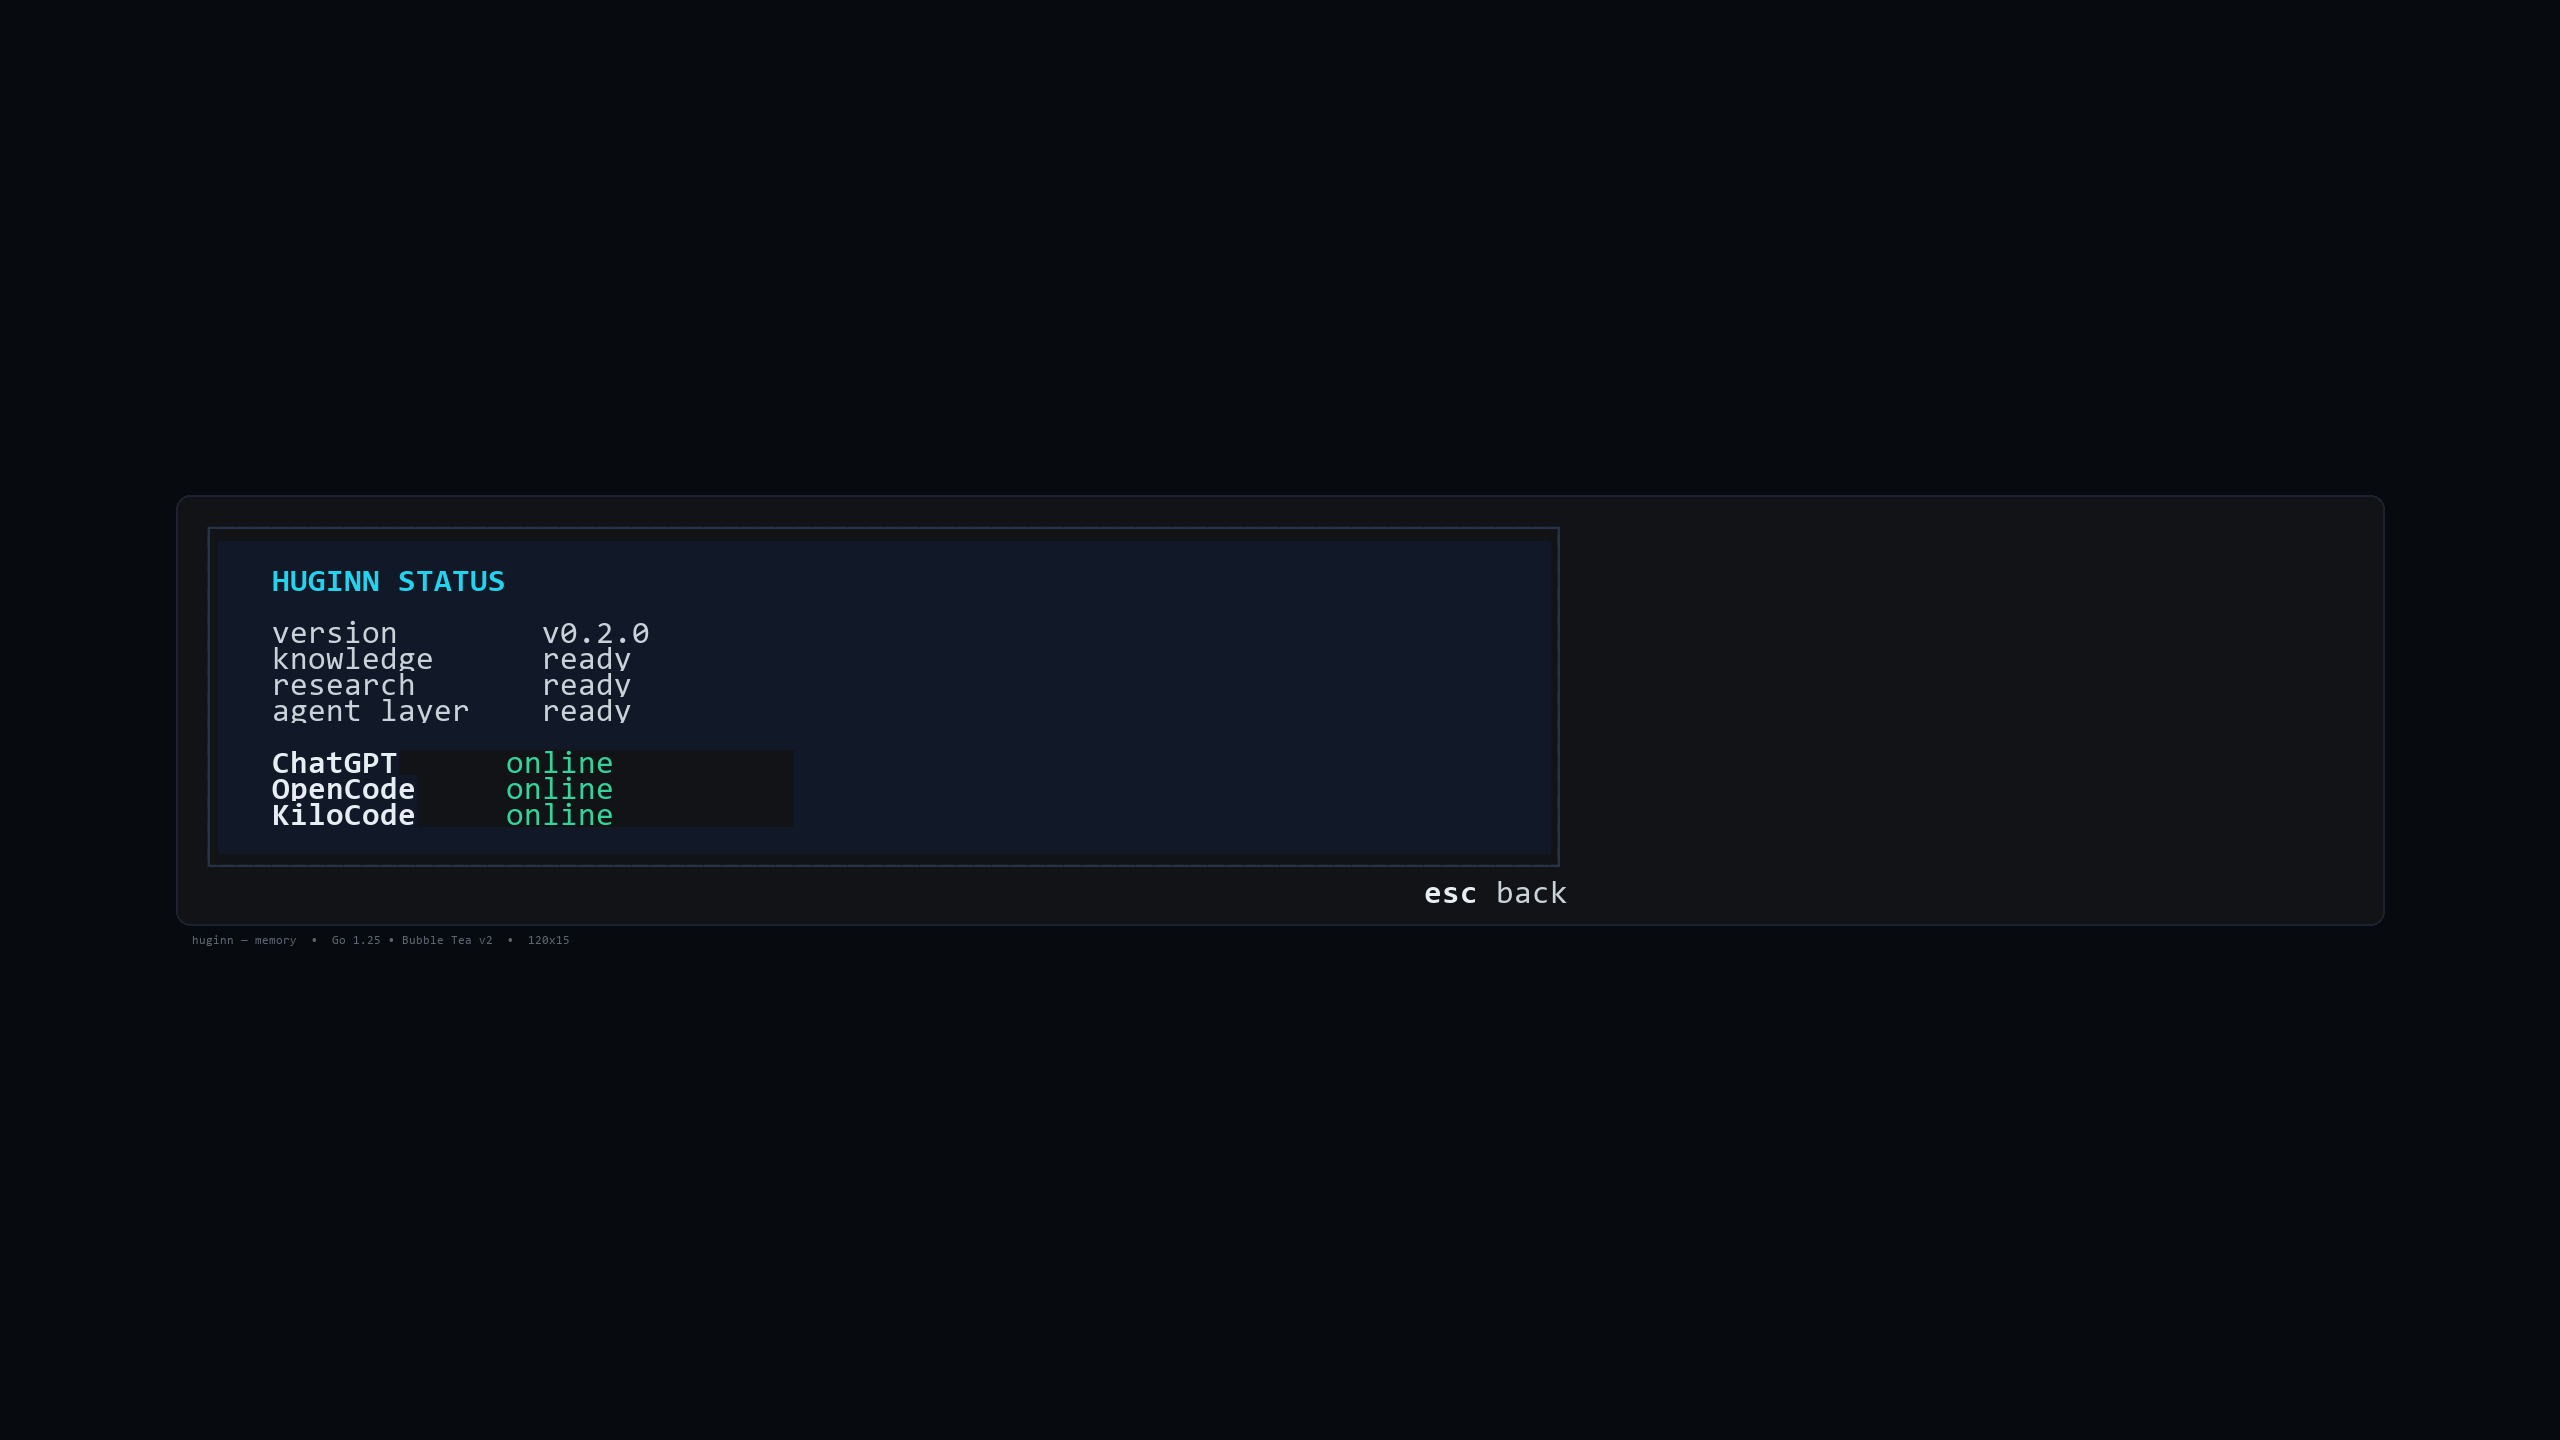
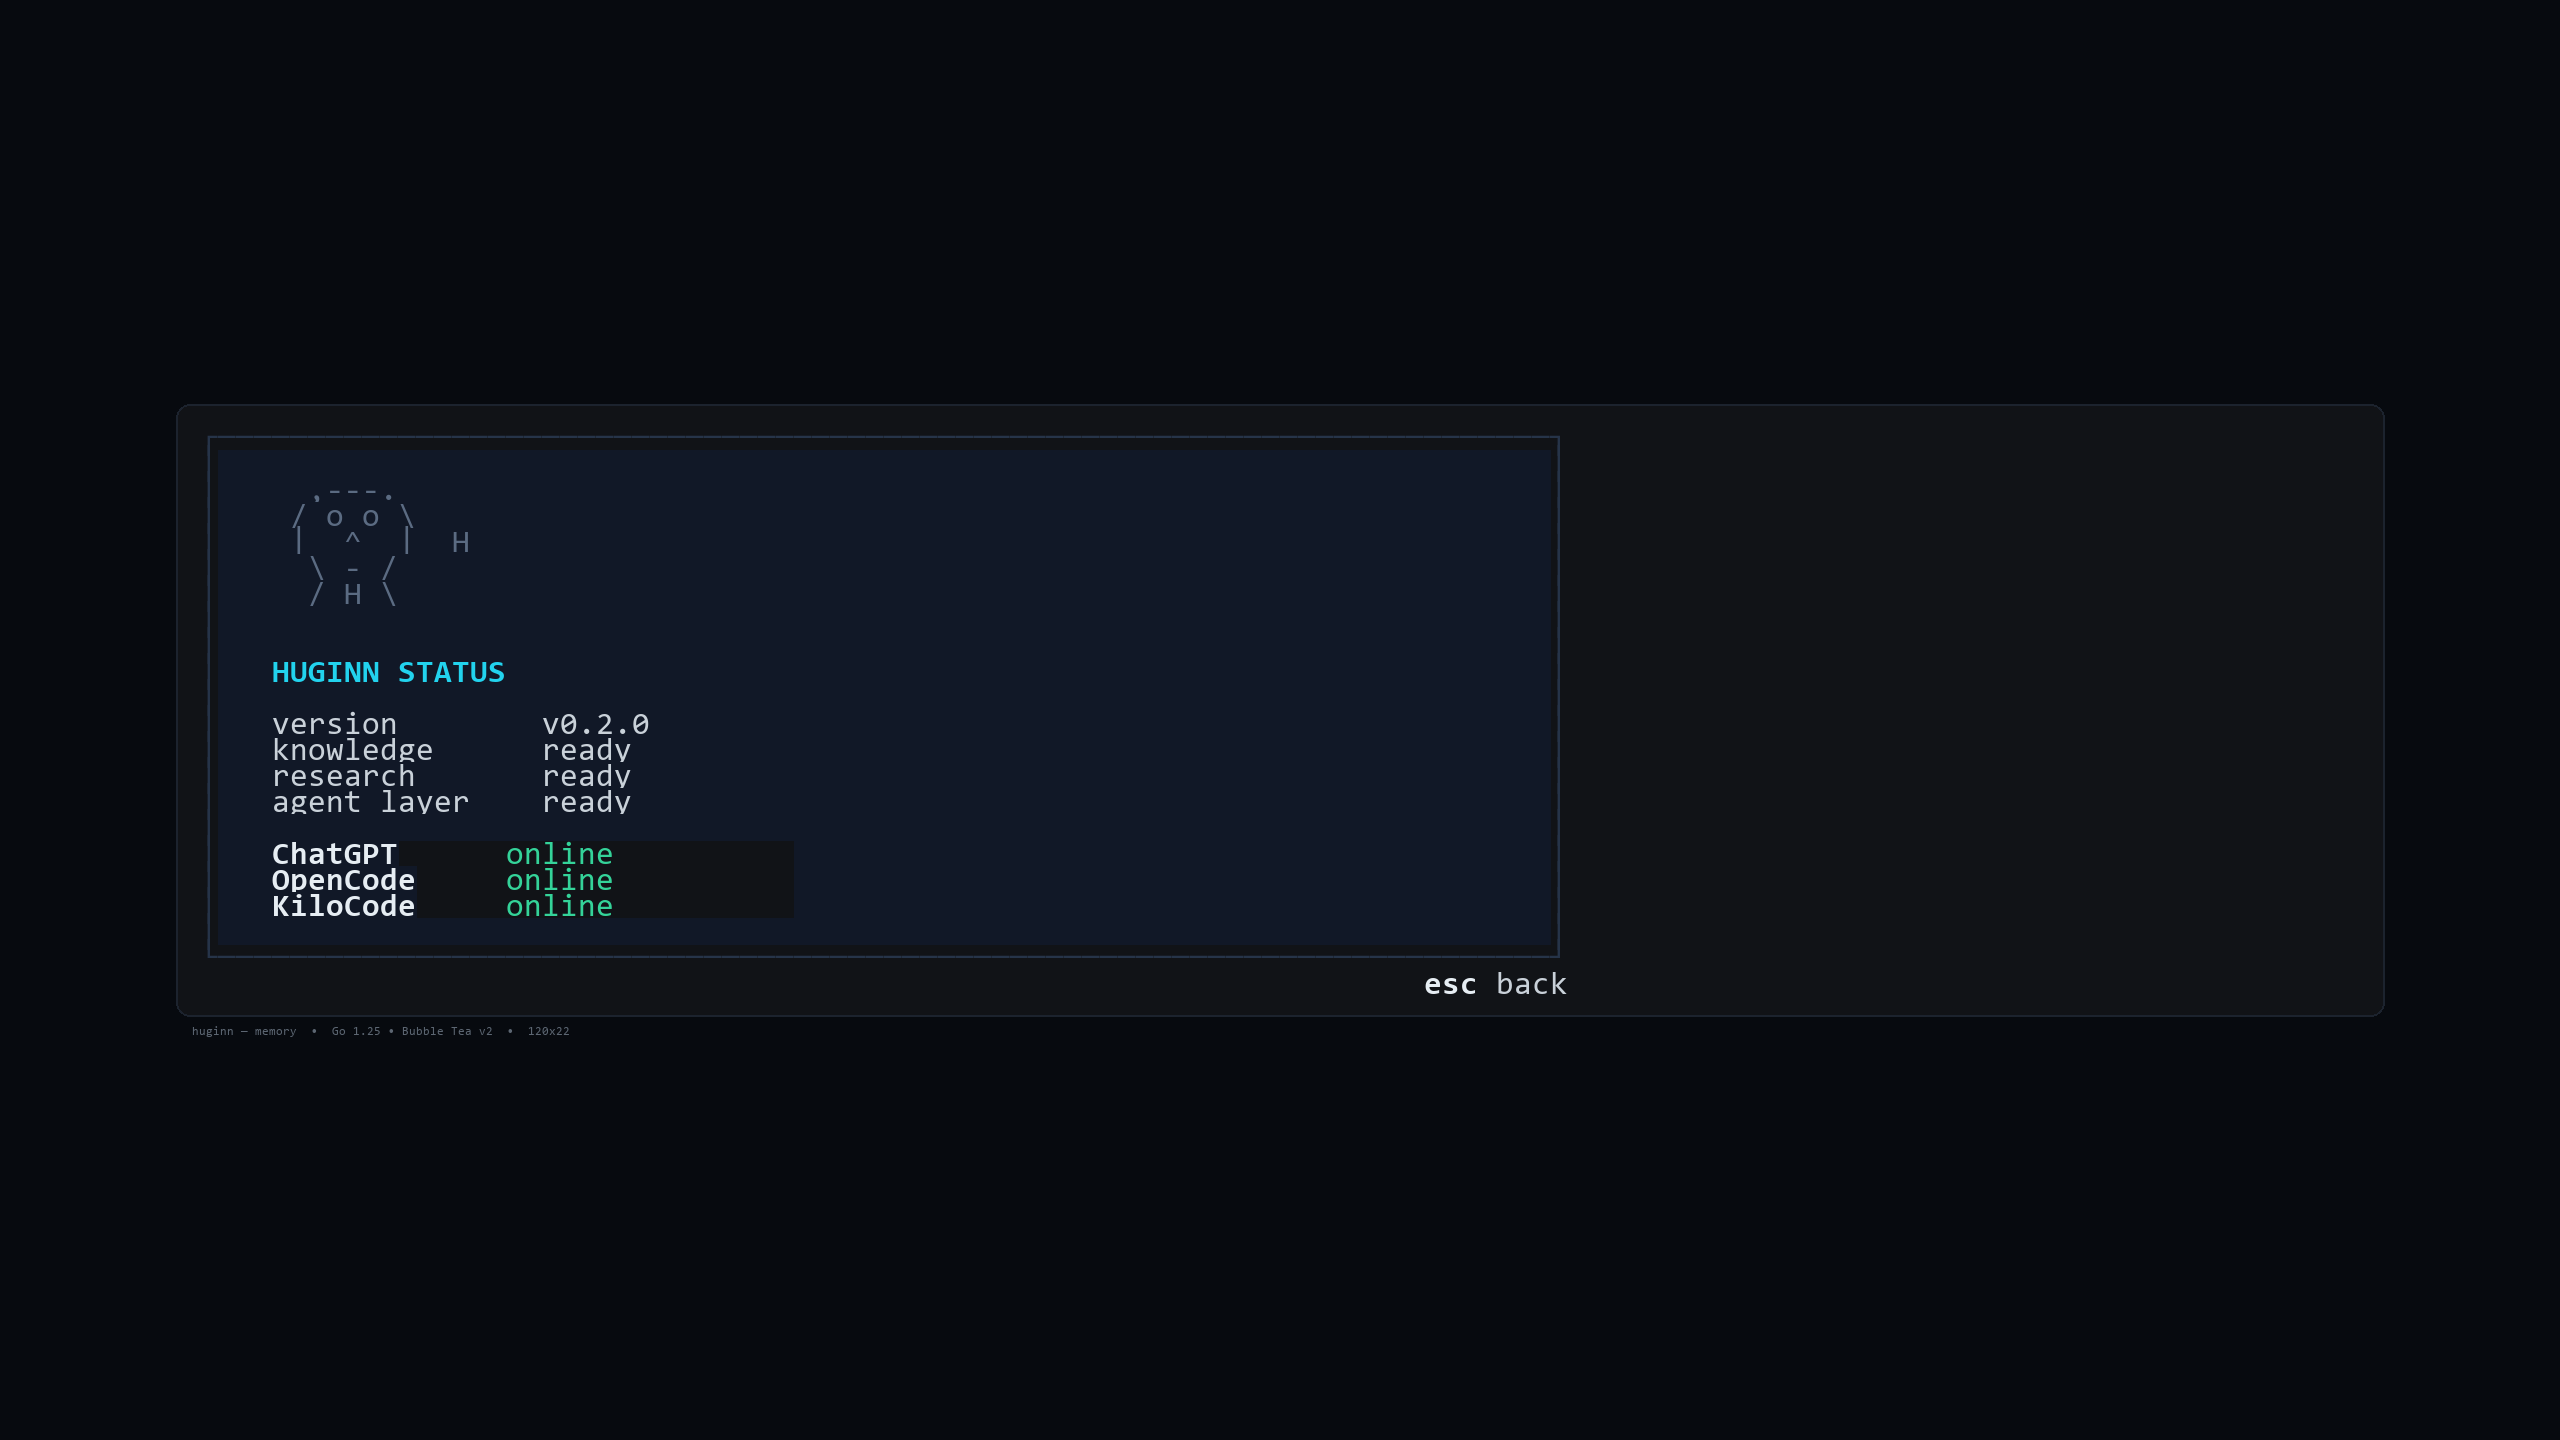
feat(mascota): visible en TUI (help/status/chat vacio) con ASCII Sabio
- viewHelp/status con RenderMascotSmall + subtitulo
- viewChat vacio muestra mascota Sabio
- fix ASCII crow para evitar garble

Changed region(s): [[0.0938, 0.3438, 0.25, 0.6562], [0.5625, 0.6562, 0.625, 0.6875], [0.5625, 0.5938, 0.625, 0.625]]

diff --git a/main.go b/main.go
@@ -2074,6 +2074,10 @@ func viewRunning(m model) string {
 
 func viewHelp(m model) string {
 	var rows []string
+	// mascota cabecera — Sabio con libro
+	mascot := tuicomp.RenderMascotSmall()
+	mascotTitle := lipgloss.NewStyle().Foreground(colMuted).Italic(true).Render("Huginn vuela, recuerda, conecta mundos.  — La mirada que todo lo ve")
+	rows = append(rows, mascot, mascotTitle, "")
 	title := lipgloss.NewStyle().Bold(true).Foreground(colAccent).Render("HUGINN commands")
 	rows = append(rows, title, "")
 	for _, c := range commands {
@@ -2126,6 +2130,8 @@ func viewAgents(m model) string {
 
 func viewStatus(m model) string {
 	var rows []string
+	mascot := tuicomp.RenderMascotSmall()
+	rows = append(rows, mascot, "")
 	title := lipgloss.NewStyle().Bold(true).Foreground(colAccent).Render("HUGINN STATUS")
 	rows = append(rows, title, "")
 	rows = append(rows, fmt.Sprintf("%-14s %s", "version", VERSION))
@@ -2878,6 +2884,16 @@ func viewChat(m model) string {
     // híbrido opencode: left limpio solo chat history + input (sin dispatch duplicado)
     agents := []string{"ChatGPT", "OpenCode", "Kilo Code", "Mimo Code", "Muse Code"}
     leftLines := []string{""}
+    if len(m.chatHistory) <= 1 {
+        // splash mascota en vacio — Sabio
+        for _, l := range strings.Split(tuicomp.RenderMascotSmall(), "\n") {
+            if strings.TrimSpace(l) != "" {
+                leftLines = append(leftLines, "  "+l)
+            }
+        }
+        leftLines = append(leftLines, lipgloss.NewStyle().Foreground(colMuted).Italic(true).Render("  Huginn vuela, recuerda, conecta mundos."))
+        leftLines = append(leftLines, "")
+    }
     if lipgloss.Width(prompt) > 0 && len(m.chatHistory) <= 1 {
         leftLines = append(leftLines, lipgloss.NewStyle().Foreground(colMuted).Render("  › ")+lipgloss.NewStyle().Foreground(colText2).Italic(true).Render(truncate(prompt, leftW-8)))
         leftLines = append(leftLines, "")

diff --git a/internal/tui/components/mascot.go b/internal/tui/components/mascot.go
@@ -3,11 +3,11 @@ package components
 import "charm.land/lipgloss/v2"
 
 var mascotSabio = []string{
-	"  ,---.     ",
-	" / o o \\    ",
-	" |  ^  |  H ",
-	"  \\_-_/   ",
-	"  / H \\    ",
+	"   .--.      ",
+	"  / o o \\   ",
+	"  |  v  |   ",
+	"   \\ ^ /    ",
+	"   /_H_\\   ",
 }
 
 // RenderMascotSmall retorna ASCII del cuervo sabio para splash/help
